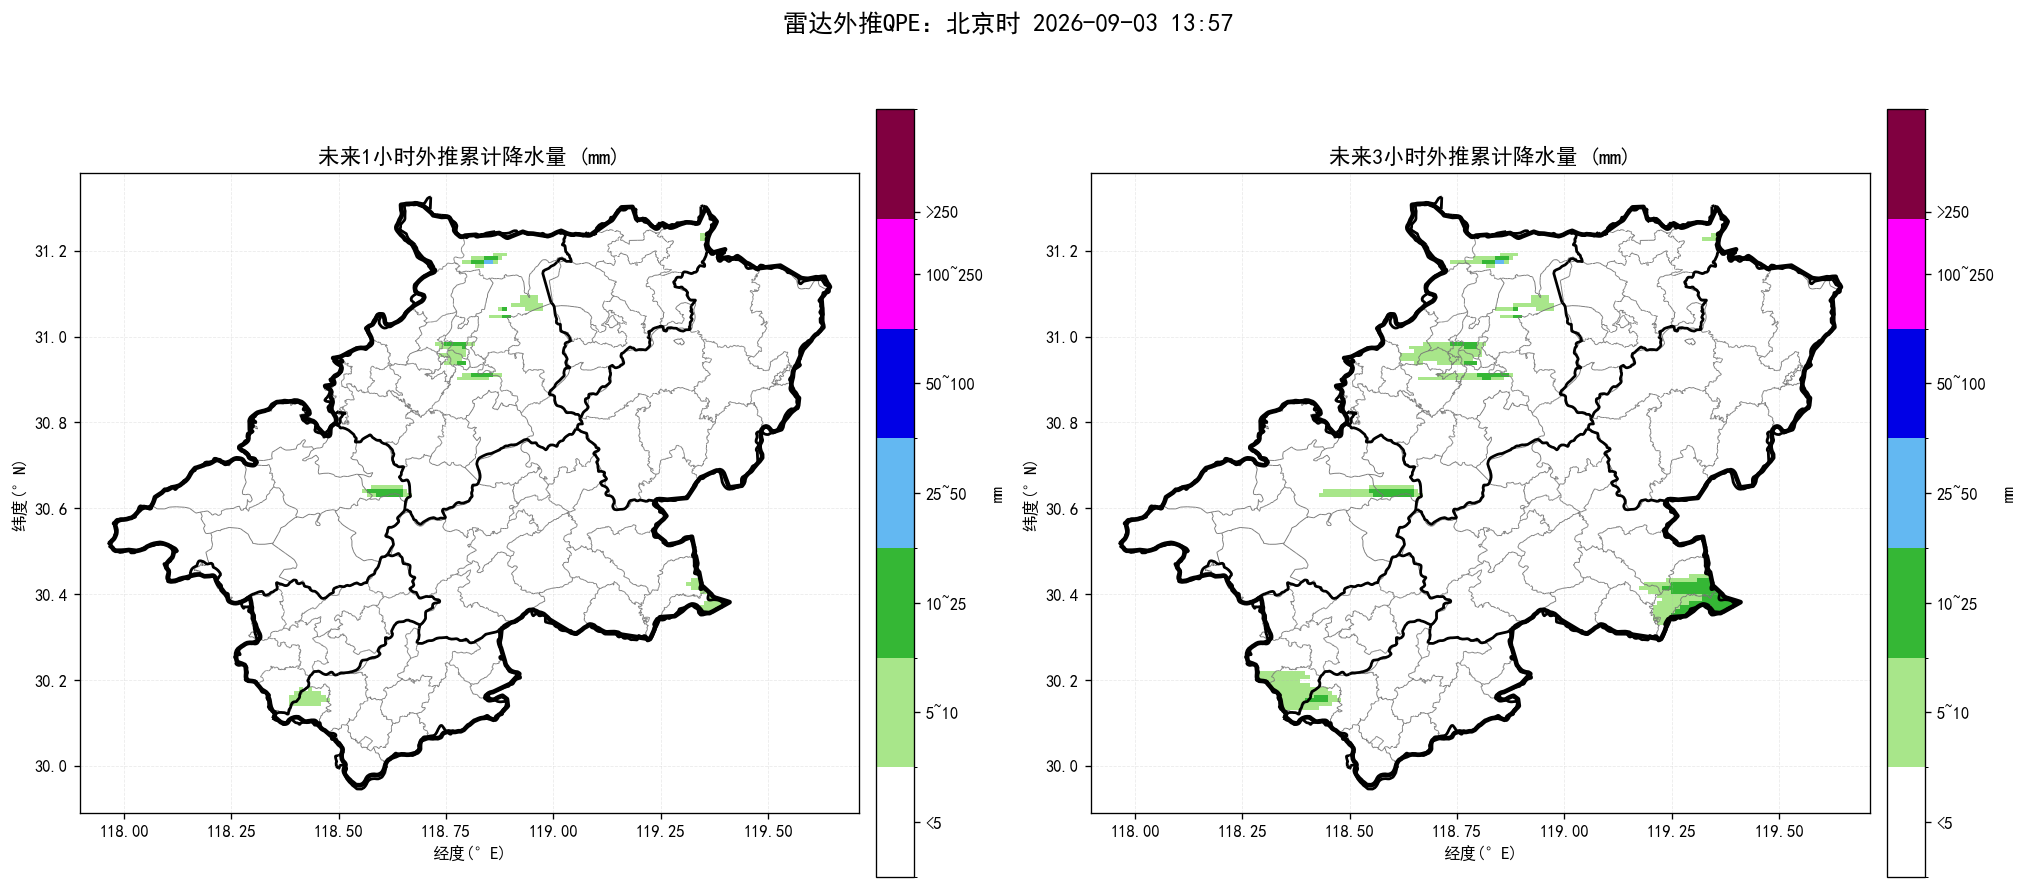
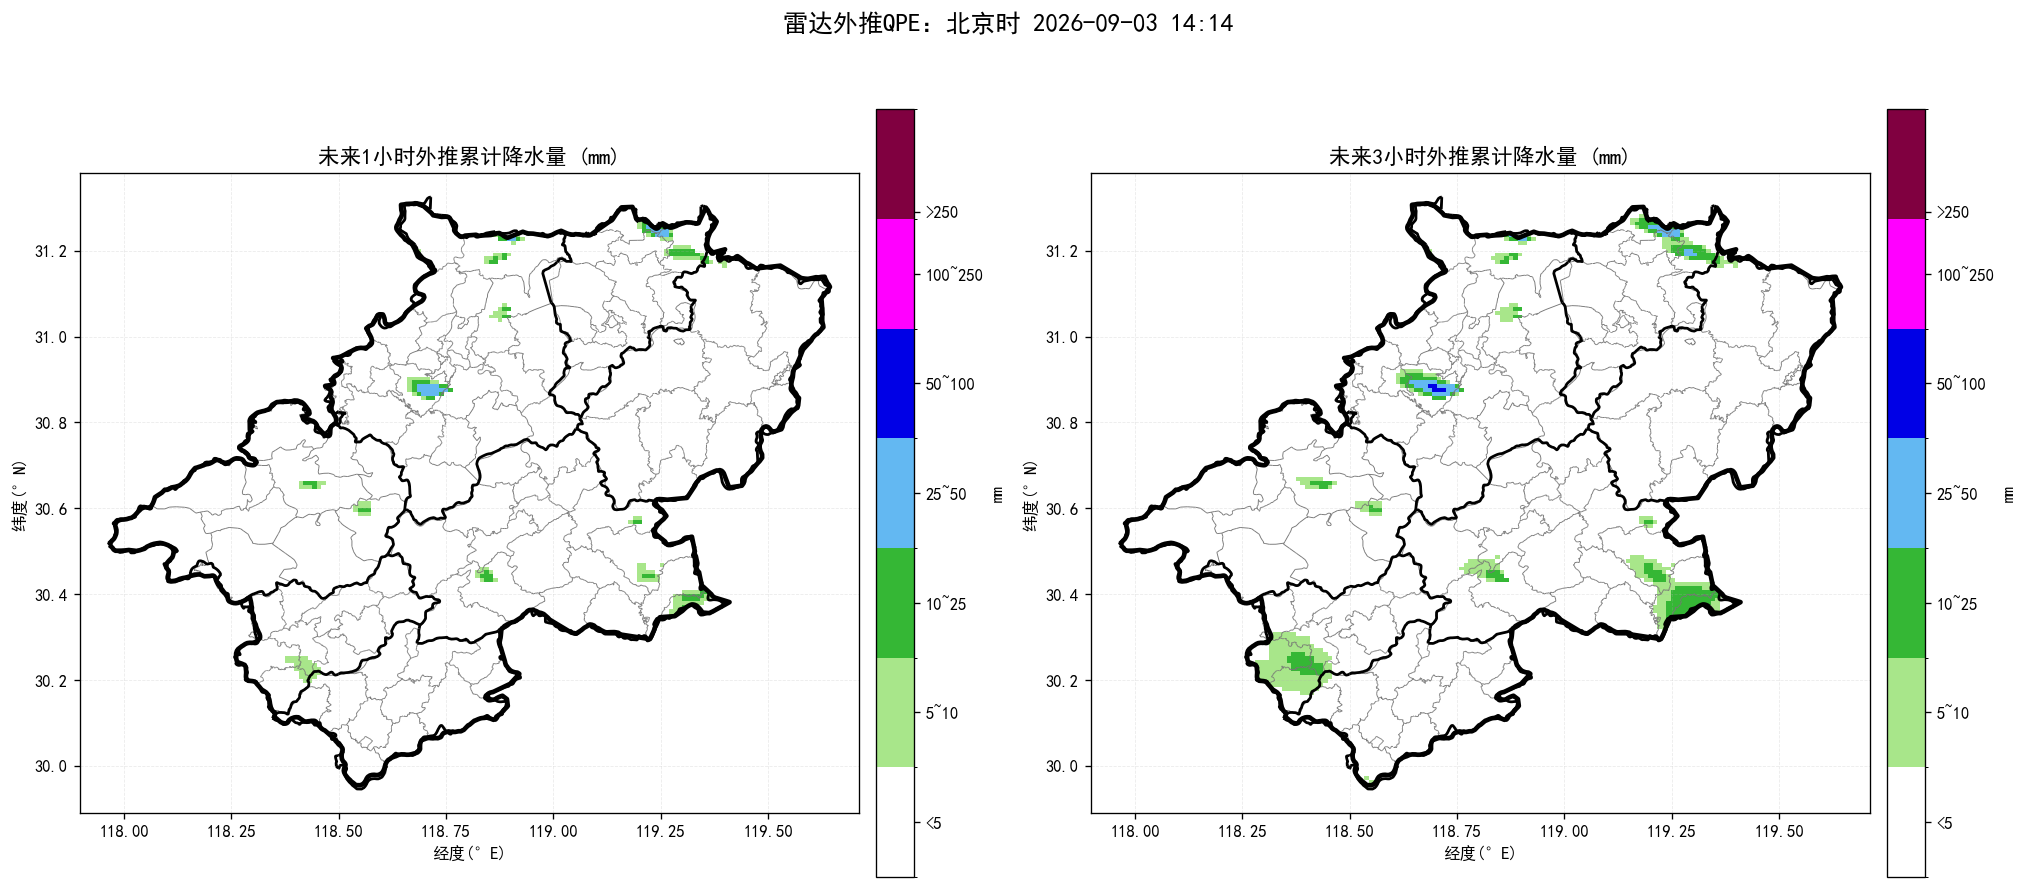
update nowcast products

diff --git a/index.html b/index.html
@@ -14,14 +14,14 @@ img.product{display:block;width:100%;height:auto;margin:10px auto 26px;border:1p
 .footer{font-size:13px;color:#777;text-align:center;margin-top:30px}
 @media(max-width:700px){.sheet{margin:0;padding:18px 15px}.alert-title{font-size:22px}.county-line{font-size:17px}.prob{font-size:18px}}
 </style></head><body><main class="sheet">
-<div class="time">起报时间：北京时 2026-09-03 13:57</div>
-<div class="alert-title">未来一小时降水量超过 20 毫米的乡镇：</div><div class="county-line">宣州区：狸桥镇；</div><div class="county-line">泾县：蔡村镇</div>
-<div class="alert-title">未来三小时降水量超过 50 毫米的乡镇：</div><div class="county-line">无</div>
-<div class="alert-title">未来三小时雷暴大风（组合反射率 > 55 dBZ）的乡镇：</div><div class="county-line">宣州区：狸桥镇</div>
-<div class="prob">最大降水量概率预估：宣城市范围内未来三小时累计降水达到50毫米概率约7%，达到80毫米概率约0%，达到100毫米概率约0%。</div>
-<div class="section-title">未来降水预报图：</div><img class="product auto-refresh-product" data-src="短临降水预报.png" src="短临降水预报.png?v=20260903140301" alt="未来降水预报图">
-<div class="section-title">未来三小时组合反射率图：</div><img class="product auto-refresh-product" data-src="未来3小时组合反射率.png" src="未来3小时组合反射率.png?v=20260903140301" alt="未来三小时组合反射率图">
-<div class="section-title">未来三小时雷暴大风图：</div><img class="product auto-refresh-product" data-src="未来3小时雷暴大风.png" src="未来3小时雷暴大风.png?v=20260903140301" alt="未来三小时雷暴大风图">
+<div class="time">起报时间：北京时 2026-09-03 14:14</div>
+<div class="alert-title">未来一小时降水量超过 20 毫米的乡镇：</div><div class="county-line">宣州区：金坝街道、狸桥镇、向阳镇；</div><div class="county-line">郎溪县：梅渚镇、凌笪乡、郎溪经济开发区；</div><div class="county-line">宁国市：甲路镇</div>
+<div class="alert-title">未来三小时降水量超过 50 毫米的乡镇：</div><div class="county-line">宣州区：金坝街道</div>
+<div class="alert-title">未来三小时雷暴大风（组合反射率 > 55 dBZ）的乡镇：</div><div class="county-line">宣州区：金坝街道</div>
+<div class="prob">最大降水量概率预估：宣城市范围内未来三小时累计降水达到50毫米概率约87%，达到80毫米概率约17%，达到100毫米概率约5%。</div>
+<div class="section-title">未来降水预报图：</div><img class="product auto-refresh-product" data-src="短临降水预报.png" src="短临降水预报.png?v=20260903141951" alt="未来降水预报图">
+<div class="section-title">未来三小时组合反射率图：</div><img class="product auto-refresh-product" data-src="未来3小时组合反射率.png" src="未来3小时组合反射率.png?v=20260903141951" alt="未来三小时组合反射率图">
+<div class="section-title">未来三小时雷暴大风图：</div><img class="product auto-refresh-product" data-src="未来3小时雷暴大风.png" src="未来3小时雷暴大风.png?v=20260903141951" alt="未来三小时雷暴大风图">
 <div class="footer">三张产品图每 60 秒自动刷新一次；每次请求自动附加新的URL参数以绕过缓存。</div>
 <script>
 (function() {
